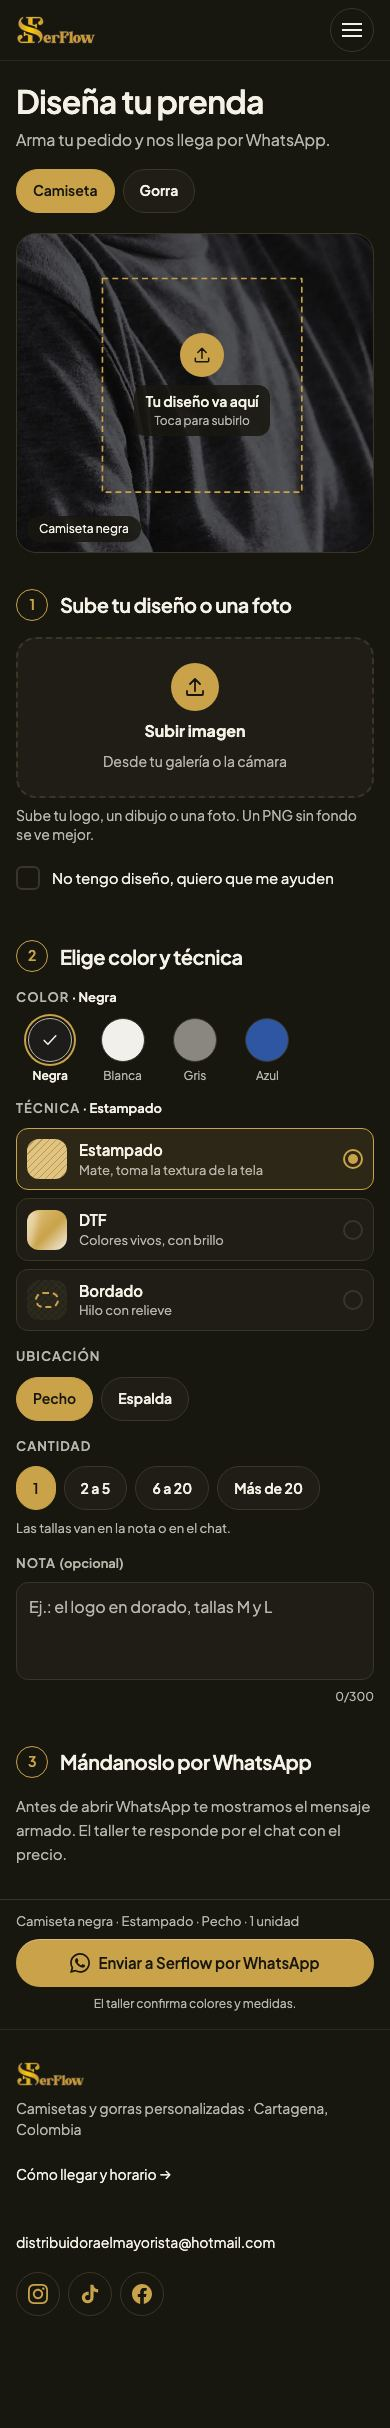
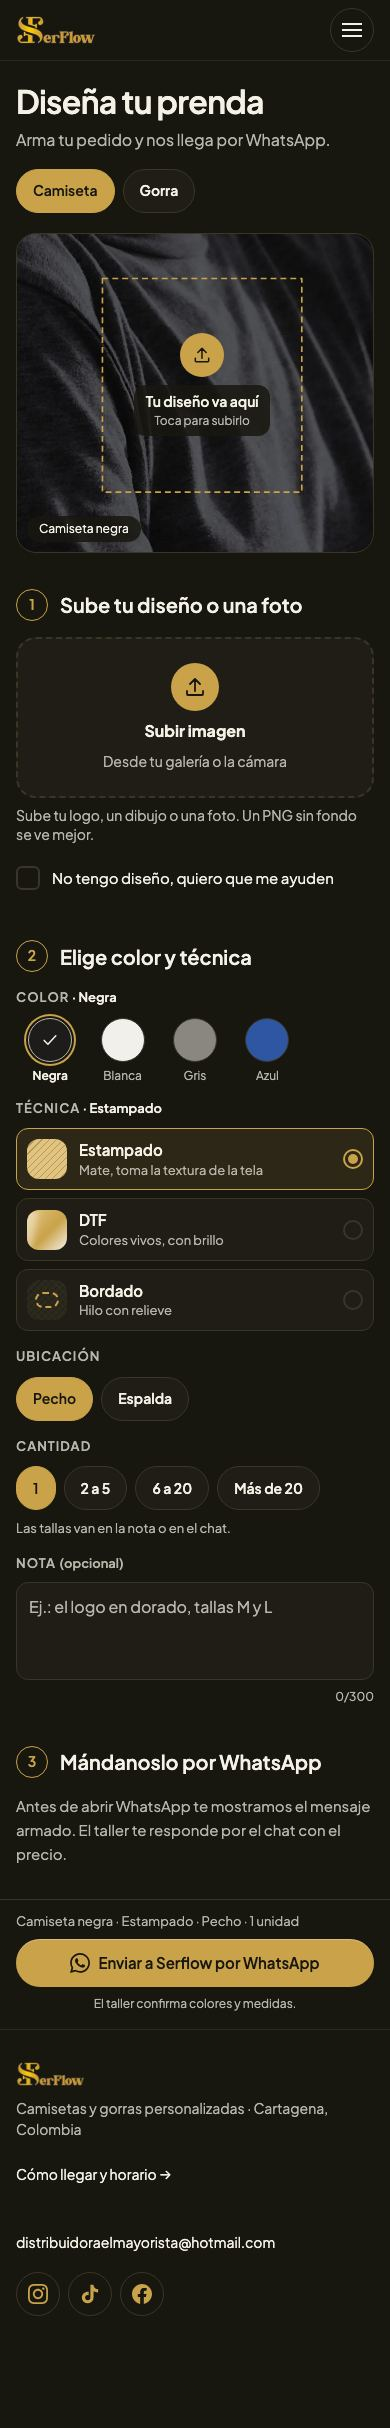
docs: PRI-286 apply design review round 2 on the refresh canvas

diff --git a/tempo/designs/canvases/refresh-oro-viejo/narracion.tsx b/tempo/designs/canvases/refresh-oro-viejo/narracion.tsx
@@ -258,7 +258,7 @@ export function Movimientos() {
           items={[
             ["Clase", <Code key="c">sf-toque</Code>],
             ["Tiempos", "120 ms, escala 0.96 a 0.98"],
-            ["Reducir movimiento", "Nada se mueve, nada queda escondido: el titular aparece completo, las fotos a todo color, la costura solo en la página actual."],
+            ["Reducir movimiento", "Nada se mueve, nada queda escondido: el titular aparece completo, las fotos a todo color, la costura aparece sin dibujarse."],
           ]}
         />
       </Row>
@@ -525,14 +525,15 @@ const CAMBIOS: { grupo: string; items: ReactNode[] }[] = [
   {
     grupo: "4 · Componentes (clases, sin props nuevas)",
     items: [
-      <>Button: BASE + sf-brillo y sin las clases de translate en active; whatsapp sin shadow-[0_5px_0…], con shadow-[inset_0_1px_0_rgb(255_255_255/.28)] y font-semibold; secondary + sf-brillo-suave y hover:border-secondary; ghost + sf-costura sin hover:underline.</>,
+      <>Button: whatsapp + sf-brillo, sin shadow-[0_5px_0…] ni active:translate-y-[3px], con shadow-[inset_0_1px_0_rgb(255_255_255/.28)] y font-semibold; secondary + sf-brillo sf-brillo-suave, sin active:translate-y-px y con hover:border-secondary; ghost + sf-costura sin hover:underline (el ghost no lleva sf-brillo: los dos usan ::after).</>,
       <>Header: + sf-costura en los links del nav de escritorio (el de aria-current queda cosido). El menú del celular no: sus links ocupan toda la fila para el toque. Footer (LINK): + sf-costura.</>,
       <>sf-foto (y sin group-hover:scale-105 ni duration-500 en la img): en la raíz de ProductCard, ServiceCard, PromoCard y PromoAfiche, y en el &lt;a&gt; de Tile en Masonry (no en la raíz de Masonry, que es todo el muro). ProductCard: + sf-foto-texto en el bloque de texto.</>,
       <>PromoAfiche: envolver la img en un div overflow-hidden (como PromoCard) para que el zoom no se salga, y items-center en el bloque de los dos botones para que Ver las fotos quede centrado con su costura.</>,
       <>CategoryNav (a) y Chip (span): + sf-toque y hover:border-secondary en los no elegidos. ProductCard, PromoCard y Tile: el hundido al tocar ya viene con sf-foto. WhatsAppFab: queda igual (ya tiene active:scale-95).</>,
-      <>font-medium → font-semibold y tracking-[-0.022em] en los títulos font-display: Section h2, CategoryBanner (p del nombre), PromosPage h1, PersonalizaPage h1 (PR #36), Ticker, los números de Razones en HomePage. PromoAfiche h2 y PromoCard h3 se quedan en font-bold.</>,
+      <>font-medium → font-semibold en todo lo font-display: Section h2, CategoryBanner (p del nombre), PromosPage h1, Ticker, los números de Razones en HomePage y, del PR #36, el h1 de PersonalizaPage, los h2 de los pasos de PersonalizaCampos y el h2 de HojaEnvio. tracking-[-0.022em] solo en los de 28 px o más (Section h2, CategoryBanner, PromosPage h1, PersonalizaPage h1). PromoAfiche h2 y PromoCard h3 se quedan en font-bold.</>,
       <>Section h2 + sf-entra-scroll. PromosPage h1, PersonalizaPage h1 y el nombre de CategoryBanner + sf-entra.</>,
-      <>Personalizador (PR #36): VistaPrevia, PersonalizaCampos y HojaEnvio heredan el resto por tokens; el botón de envío ya es Button.</>,
+      <>HeroCarousel: el degradado pasa de via-primary/55 a via-primary/85, para que la etiqueta dorada y el texto se lean sobre las fotos claras del taller (4.9:1 o más).</>,
+      <>Personalizador (PR #36): fuera de esos títulos, VistaPrevia, PersonalizaCampos y HojaEnvio heredan todo por tokens; el botón de envío ya es Button.</>,
     ],
   },
   {
@@ -540,8 +541,8 @@ const CAMBIOS: { grupo: string; items: ReactNode[] }[] = [
     items: [
       <>Orden: hero → Ticker → banda del personalizador → Qué hacemos → Disponible ahora → Quiénes somos con Visítanos (MapCard cerrada, sin open) al lado. Thread se queda.</>,
       <>El hero deja de compartir fila con el mapa: ancho completo, h-[560px] / @4xl:h-[600px]. h1 con sf-lineas en dos líneas (Bienvenido / a Serflow), 44 / 72 px, 600.</>,
-      <>Banda del personalizador: tal cual BandaPersonaliza de propuesta/Portada.tsx (foto estampado-proceso, Eyebrow Personalizador, Tu idea, en tu prenda., una frase, Button Diseñar mi prenda a /personaliza). Reemplaza el bloque Diseña la tuya.</>,
-      <>Fotos del hero en index.astro: gorras-estante (primera, horizontal, es el LCP), gorra-bordada-2 y dos del catálogo. Salen camisetas-estampadas y amigos-gorras (modelos). Qué hacemos: DTF con una foto del catálogo en vez de camiseta-dtf (persona).</>,
+      <>Banda del personalizador: tal cual BandaPersonaliza de propuesta/Portada.tsx (la foto de hoy de Diseña la tuya con el recuadro punteado de la vista previa, Eyebrow Personalizador, Tu idea, en tu prenda., una frase, Button Diseñar mi prenda a /personaliza). Reemplaza el bloque Diseña la tuya.</>,
+      <>Fotos del hero en index.astro: estampado-proceso (primera, horizontal, es el LCP), gorra-bordada-2, una del catálogo (DTF) y gorras-estante. Salen camisetas-estampadas y amigos-gorras (modelos). Qué hacemos: DTF con una foto del catálogo en vez de camiseta-dtf (persona).</>,
     ],
   },
   {

diff --git a/tempo/designs/canvases/refresh-oro-viejo/personalizador-despues.html b/tempo/designs/canvases/refresh-oro-viejo/personalizador-despues.html
@@ -137,6 +137,8 @@
   clip-path: inset(0 100% 0 0);
   transition: clip-path var(--motion-costura) var(--ease-premium);
 }
+/* PUENTE: en PromoAfiche el ghost va centrado (en el PR, items-center en su bloque de botones). */
+.sf-refresh article.rounded-card a.underline-offset-4 { align-self: center; }
 /* PUENTE: "Ver promo" de PromoCard es un span sin alto mínimo. */
 .sf-refresh a.group span.mt-auto.text-accent.font-semibold { --sf-costura-y: -4px; }
 @media (hover: hover) {
@@ -164,10 +166,17 @@
   .sf-refresh :is(.sf-brillo, :is(a, button).inline-flex.rounded-full.font-body)::after { transform: translateX(-120%) !important; }
 }
 
+/* ---------- PUENTE: HeroCarousel, velo más oscuro a media altura para que el texto se lea sobre fotos claras del taller
+   (en el PR: via-primary/55 -> via-primary/85 en el degradado). Con #C9A24A encima queda en 4.9:1 o más. ---------- */
+
+.sf-refresh .hero-carousel > .bg-gradient-to-t {
+  background-image: linear-gradient(to top, var(--color-primary) 0%, color-mix(in srgb, var(--color-primary) 85%, transparent) 50%, transparent 100%);
+}
+
 /* ---------- PUENTE: letra (en el PR, clases en cada componente; ver la lista de cambios) ---------- */
 
 .sf-refresh .font-display.font-medium { font-weight: 600; }
-.sf-refresh :is(h1, h2, p).font-display.font-medium { letter-spacing: -0.022em; }
+.sf-refresh :is(h1, h2.stitch-title, [data-banner-slide] p).font-display.font-medium { letter-spacing: -0.022em; }
 .sf-refresh :is(a, button).inline-flex.rounded-full.font-body.font-bold { font-weight: 600; }
 
 /* ---------- Solo canvas (no va al PR) ---------- */

diff --git a/tempo/designs/canvases/refresh-oro-viejo/refresh.css b/tempo/designs/canvases/refresh-oro-viejo/refresh.css
@@ -135,6 +135,8 @@
   clip-path: inset(0 100% 0 0);
   transition: clip-path var(--motion-costura) var(--ease-premium);
 }
+/* PUENTE: en PromoAfiche el ghost va centrado (en el PR, items-center en su bloque de botones). */
+.sf-refresh article.rounded-card a.underline-offset-4 { align-self: center; }
 /* PUENTE: "Ver promo" de PromoCard es un span sin alto mínimo. */
 .sf-refresh a.group span.mt-auto.text-accent.font-semibold { --sf-costura-y: -4px; }
 @media (hover: hover) {
@@ -162,10 +164,17 @@
   .sf-refresh :is(.sf-brillo, :is(a, button).inline-flex.rounded-full.font-body)::after { transform: translateX(-120%) !important; }
 }
 
+/* ---------- PUENTE: HeroCarousel, velo más oscuro a media altura para que el texto se lea sobre fotos claras del taller
+   (en el PR: via-primary/55 -> via-primary/85 en el degradado). Con #C9A24A encima queda en 4.9:1 o más. ---------- */
+
+.sf-refresh .hero-carousel > .bg-gradient-to-t {
+  background-image: linear-gradient(to top, var(--color-primary) 0%, color-mix(in srgb, var(--color-primary) 85%, transparent) 50%, transparent 100%);
+}
+
 /* ---------- PUENTE: letra (en el PR, clases en cada componente; ver la lista de cambios) ---------- */
 
 .sf-refresh .font-display.font-medium { font-weight: 600; }
-.sf-refresh :is(h1, h2, p).font-display.font-medium { letter-spacing: -0.022em; }
+.sf-refresh :is(h1, h2.stitch-title, [data-banner-slide] p).font-display.font-medium { letter-spacing: -0.022em; }
 .sf-refresh :is(a, button).inline-flex.rounded-full.font-body.font-bold { font-weight: 600; }
 
 /* ---------- Solo canvas (no va al PR) ---------- */

diff --git a/tempo/designs/canvases/refresh-oro-viejo/propuesta/Portada.tsx b/tempo/designs/canvases/refresh-oro-viejo/propuesta/Portada.tsx
@@ -35,16 +35,19 @@ export function BandaPersonaliza() {
   return (
     <section aria-labelledby="personaliza-titulo" className="px-4 pt-8 @3xl:px-12 @3xl:pt-14">
       <article className="group grid overflow-hidden rounded-card border border-line bg-surface @3xl:grid-cols-[minmax(0,1.35fr)_minmax(0,1fr)]">
-        <div className="relative overflow-hidden">
+        {/* El proceso del personalizador: tu diseño puesto sobre la prenda (la vista previa de /personaliza). */}
+        <div className="relative overflow-hidden bg-surface-2">
           <img
-            src={FOTOS.estampadoProceso}
-            alt="Manos pasando el rasero sobre una plancha de estampado en el taller"
+            src={FOTOS.mtq2}
+            alt="Gorra con un diseño bordado y el recuadro donde va tu diseño"
             width={800}
-            height={533}
+            height={600}
             loading="lazy"
             decoding="async"
-            className="aspect-[4/3] h-full w-full object-cover @3xl:aspect-auto @3xl:min-h-[440px]"
+            className="aspect-[4/3] w-full object-cover @3xl:aspect-auto @3xl:h-[460px]"
           />
+          <span aria-hidden="true" className="absolute left-1/2 top-[30%] h-[30%] w-[40%] -translate-x-1/2 rounded-tile border-2 border-dashed border-accent" />
+          <span className="absolute bottom-3 left-3 rounded-full bg-primary/85 px-3 py-1 text-[12px] text-ink">Vista previa</span>
         </div>
         <div className="flex flex-col items-start justify-center gap-4 p-5 pb-6 @3xl:gap-5 @3xl:p-12">
           <Eyebrow>Personalizador</Eyebrow>

diff --git a/tempo/designs/canvases/refresh-oro-viejo/comun.tsx b/tempo/designs/canvases/refresh-oro-viejo/comun.tsx
@@ -23,12 +23,12 @@ import kid1 from "../../../../src/assets/images/kids/kid1.webp";
 
 export const FOTOS = { gorraBordada2, estampadoProceso, estampadoRasero, gorrasEstante, mtq2, mtq5, moda1, kid1 };
 
-/** Hero de la portada nueva: prendas, nadie posando. Primero una foto horizontal (es el LCP y en desktop el hero es ancho). El estampado queda para la banda del personalizador. */
+/** Hero de la portada nueva: prendas, nadie posando. Primero el estampado en el taller (es el LCP, horizontal). */
 export const SLIDES_SIN_MODELOS: Slide[] = [
-  { src: gorrasEstante, caption: "Listas para llevar", alt: "Gorras personalizadas en un estante del taller" },
-  { src: gorraBordada2, caption: "Gorras bordadas", alt: "Gorra bordada con luz cálida del taller", position: "50% 40%" },
+  { src: estampadoProceso, caption: "Estampado en el taller", alt: "Manos pasando el rasero sobre una plancha de estampado", position: "50% 60%" },
+  { src: gorraBordada2, caption: "Gorras bordadas", alt: "Gorra bordada con luz cálida del taller", position: "30% 30%" },
   { src: mtq5, caption: "Tu diseño en DTF", alt: "Gorra con estampado DTF a todo color", position: "50% 45%" },
-  { src: moda1, caption: "Con el logo de tu negocio", alt: "Gorra negra con logo bordado", position: "50% 45%" },
+  { src: gorrasEstante, caption: "Listas para llevar", alt: "Gorras personalizadas en un estante del taller" },
 ];
 
 const BEISBOL = Object.values(

diff --git a/tempo/designs/canvases/refresh-oro-viejo/pantallas.tsx b/tempo/designs/canvases/refresh-oro-viejo/pantallas.tsx
@@ -36,7 +36,7 @@ function Promos({ width, refresh }: { width: number; refresh?: boolean }) {
 
 const NOTA_PORTADA = (
   <>
-    Mismo esqueleto de master con dos cambios: el personalizador sube justo después del hero (foto del taller, una frase y{" "}
+    Mismo esqueleto de master con dos cambios: el personalizador sube justo después del hero (la prenda con tu diseño encima, una frase y{" "}
     <b className="text-ink">Diseñar mi prenda</b>) y el mapa baja al final, plegado junto a Quiénes somos. El hero pasa a fotos
     de prendas y del taller, sin modelos. Pasa el mouse por los botones, las fotos y los links del menú; Repetir vuelve a
     mostrar la entrada del titular.
@@ -85,7 +85,7 @@ export function PromosDesktop() {
 const NOTA_PERSONALIZADOR = (
   <>
     /personaliza de PRI-122 (PR #36, sin mergear), capturada del deploy preview con la página funcionando. El después es la
-    misma página con refresh.css encima: hereda todo por tokens; solo su h1 pasa a 600 y entra al cargar. Para pasar el
+    misma página con refresh.css encima: hereda todo por tokens; solo su h1 y los títulos de los pasos pasan a 600, y el h1 entra al cargar. Para pasar el
     mouse, los cuatro frames HTML de la derecha tienen la página (sin JavaScript, así que la vista previa queda cargando).
   </>
 );
